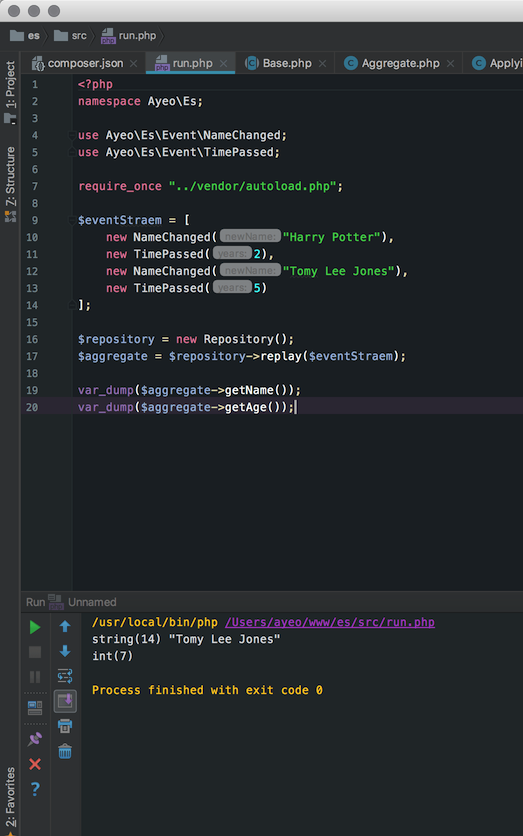
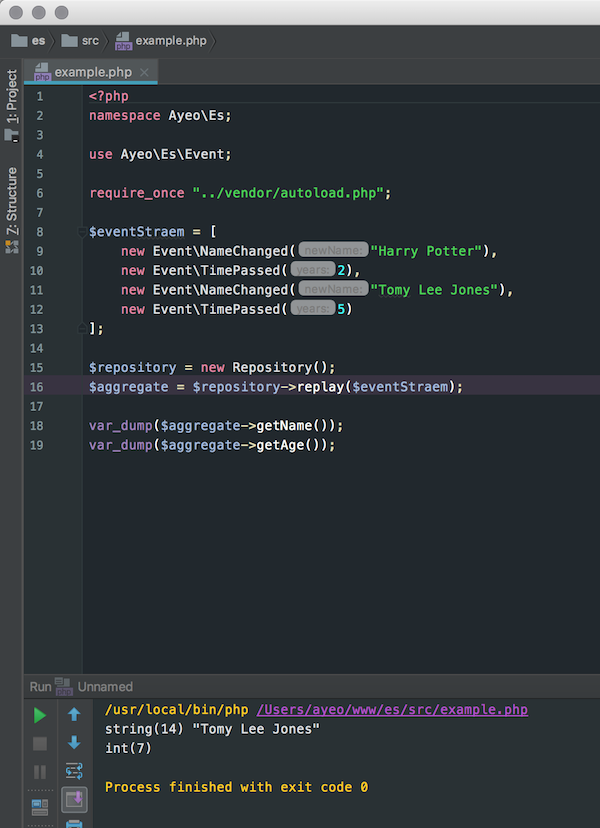
Clean

Changed region(s): [[0.0, 0.0, 1.0, 0.5435], [0.0, 0.6944, 1.0, 1.0]]

diff --git a/src/example.php b/src/example.php
@@ -1,16 +1,15 @@
 <?php
 namespace Ayeo\Es;
 
-use Ayeo\Es\Event\NameChanged;
-use Ayeo\Es\Event\TimePassed;
+use Ayeo\Es\Event;
 
 require_once "../vendor/autoload.php";
 
 $eventStraem = [
-	new NameChanged("Harry Potter"),
-	new TimePassed(2),
-	new NameChanged("Tomy Lee Jones"),
-	new TimePassed(5)
+	new Event\NameChanged("Harry Potter"),
+	new Event\TimePassed(2),
+	new Event\NameChanged("Tomy Lee Jones"),
+	new Event\TimePassed(5)
 ];
 
 $repository = new Repository();

diff --git a/readme.md b/readme.md
@@ -1,1 +1,6 @@
+Pure domain with ES
+===================
+
+This is PoC of extracting apply-like method out of domain agreggate. This is related to my [stackoverflow topic](https://stackoverflow.com/questions/47953944/mixing-together-ddd-with-cqrs#comment82960421_47995161)
+
 ![screen](screen.png)
